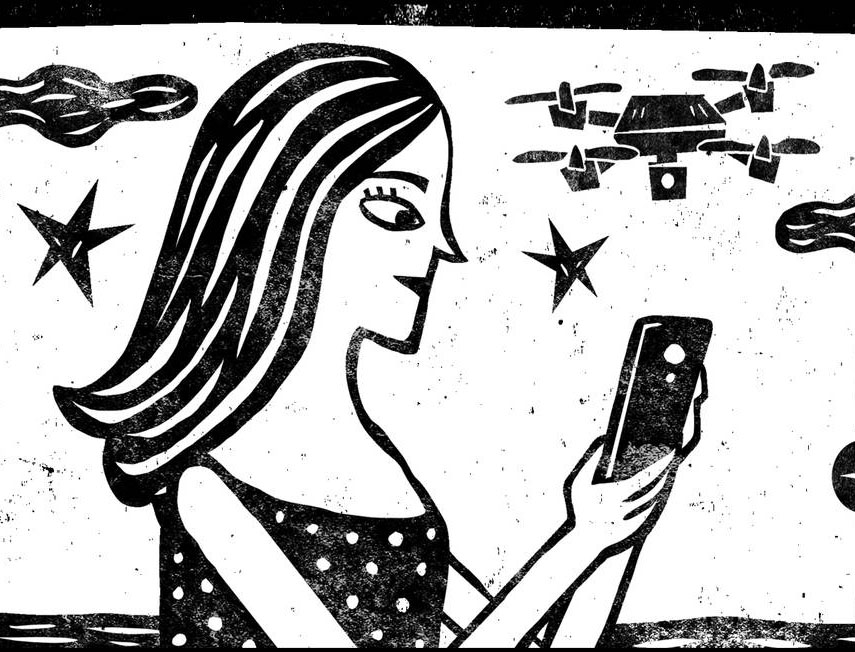
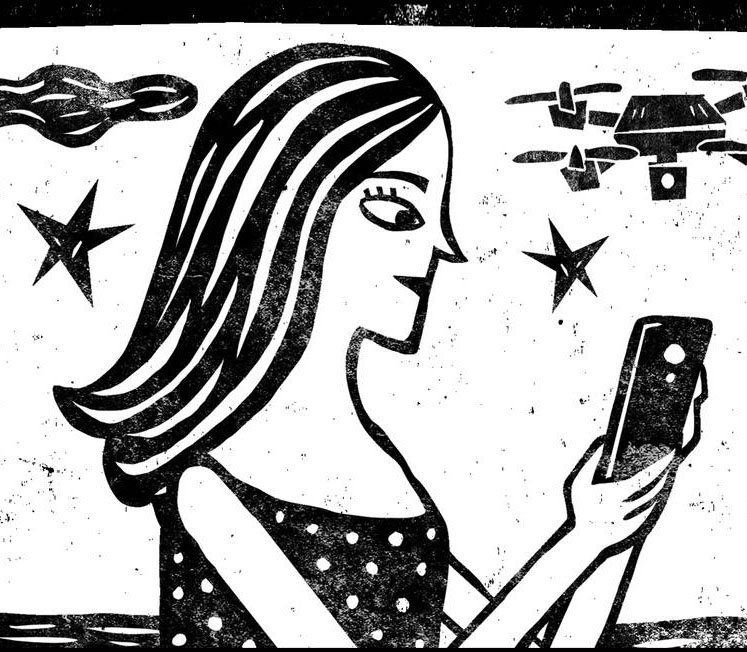
crop image

diff --git a/estilo/style.css b/estilo/style.css
@@ -76,7 +76,7 @@ section.imagem > p {
 }
 section#img01 {
     background-image: url(../imagens/cordel01.jpg);
-    background-position: center center;   
+    background-position: right center;   
 }
 section#img02 {
     background-image: url(../imagens/cordel02.jpg);
